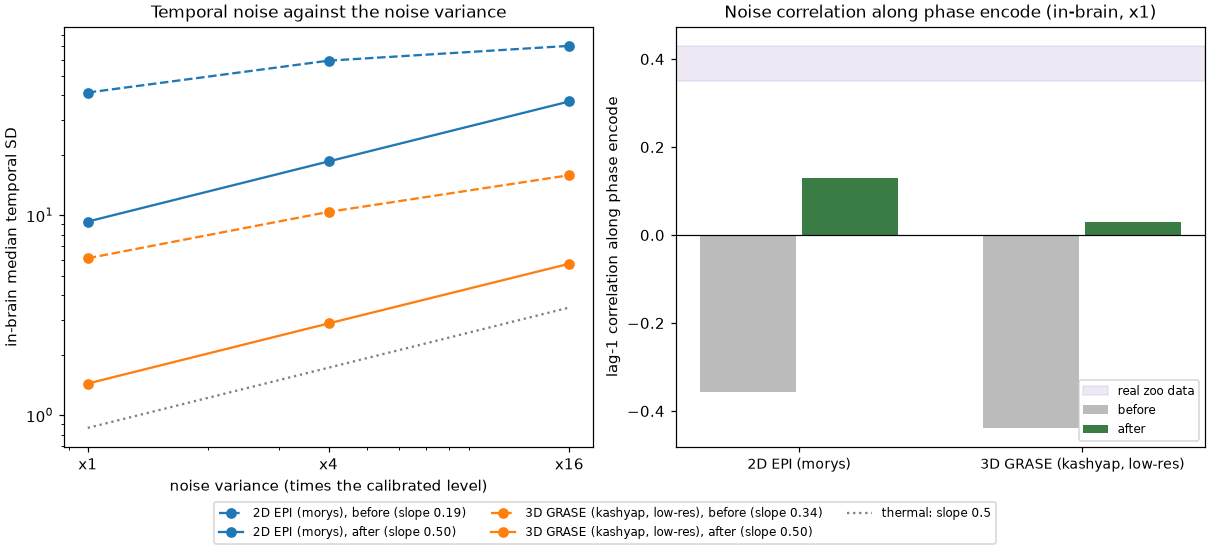
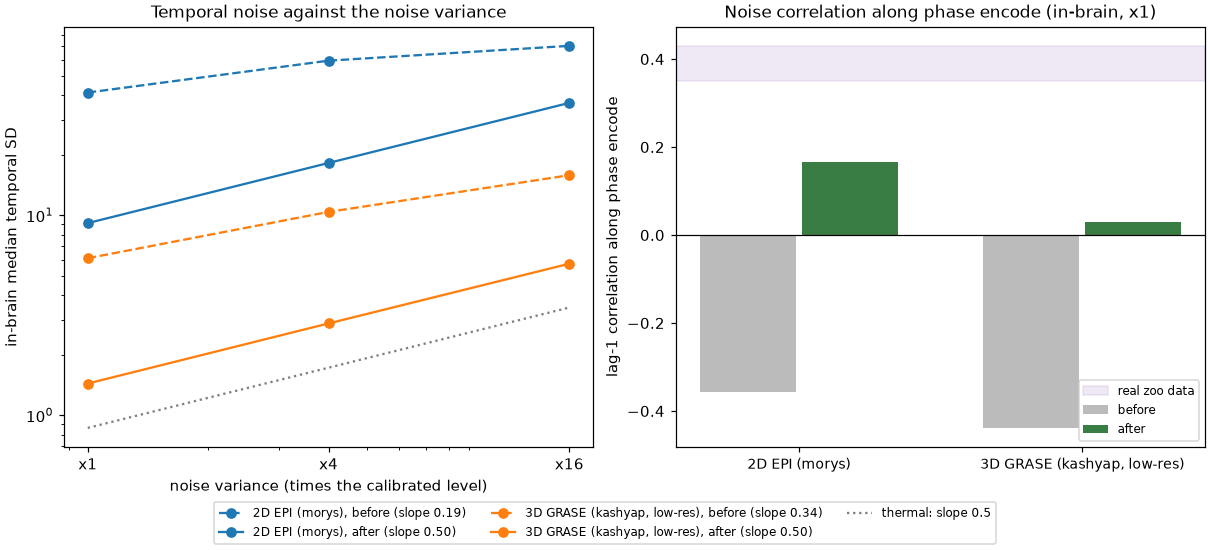
fix(GRAPPA): P6 and 3D GE reference scans before motion (Codex review)
P6 and the 3D gradient-echo train took mrsim-acq's default reference
scan, the first volume as acquired, after motion, dropout and shot
gains; a full dropout there would have ruined that slice's kernel for
the whole series. Both now use the calibration raw volume
(calibration_volume over the raw rows) unmoved and without
within-volume events, refuse an empty one, and pass it: per echo
through simulate_acquisition_echoes, acquire_2d and
simulate_acquisition_3d_kz for P6, ge3d::reference_inputs for the 3D GE
train. The 2D comment now says the reference keeps the volume's
physiology, as a scanner's does. Tests for both paths; the figures are
regenerated (morys: tSD 9.14, PE lag-1 +0.17).

diff --git a/src/series/p6.rs b/src/series/p6.rs
@@ -263,6 +263,9 @@ struct Built {
     gt_read_iv: Option<Vec<f32>>,
     gt_read_ev: Option<Vec<f32>>,
     gt_read_art: Option<Vec<f32>>,
+    /// The in-plane GRAPPA reference scan's object: the calibration raw volume's images before
+    /// any motion or within-volume event (empty without acceleration).
+    grappa_cal_images: Vec<Vec<f32>>,
 }
 
 /// The P1-P5 series body up to the acquisition, with `echo_time_s` in place of the protocol's
@@ -1193,6 +1196,23 @@ fn build(p: &Protocol, ph: &Phantom, mode: T2Mode, ov: RowOverride, echo_time_s:
         gt_read_art = d_art;
     }
 
+    // The in-plane GRAPPA reference scan: the calibration raw volume (the first control or label,
+    // else m0scan, else deltam) as it is here, before any motion or within-volume event, as the
+    // plain series captures it. (mrsim-acq's default, the first volume as acquired, would carry
+    // its motion and dropout into every volume's kernel.)
+    let grappa_cal_images: Vec<Vec<f32>> = if acq.accel > 1 {
+        let vol = crate::protocol::calibration_volume(&sched.raw_rows)
+            .ok_or("GRAPPA needs a volume to calibrate on: the series is empty")?;
+        let cal: Vec<Vec<f32>> = images.iter().map(|im| (0..nvox_sim).map(|v| im[v * n + vol]).collect()).collect();
+        if cal.iter().all(|im| im.iter().all(|v| *v == 0.0)) {
+            return Err(format!(
+                "the GRAPPA calibration volume (raw acquisition {vol}, the series' first control or label volume, else its                  first m0scan, else its first deltam) holds no signal, so the GRAPPA kernel cannot be fitted to it"));
+        }
+        cal
+    } else {
+        Vec::new()
+    };
+
     // ---- motion: per-volume poses, then multiband shot events ----
     let motion_seed = p.motion.as_ref().map(|_| p.seed ^ MOTION_SEED_SALT);
     let mut poses = vec![Pose::IDENTITY; n];
@@ -1384,7 +1404,7 @@ fn build(p: &Protocol, ph: &Phantom, mode: T2Mode, ov: RowOverride, echo_time_s:
     };
     let ge_propagated_some = ge_propagated.is_some();
     Ok(Built {
-        acq_grid, sim_grid, n, nvox_sim, images, gt_static, gt_moved, gt_iv, gt_sup, gt_art, physio_lines, shot_physio, shot_gain, shot_sets, n_shots, events, dropped, shot_plan, segment_shots, poses, motion_seed, res3d, acq, fmap_sim, relax, mode_used, k, ncomp, ev_group, macro_on, t2_arterial_ms, t2_blood_ms, acq_t2_ms, acq_t2p_ms, acq_t1_ms, needs_t1, r_acq, m0_acq, compat_facts, p4, label_factors, ge_flip, ge_propagated_some, m0_images, slice_offsets, tissue_only, tissue_shot_sets, m0_ref_images, gt_read, ll_lines, gt_read_iv, gt_read_ev, gt_read_art,
+        acq_grid, sim_grid, n, nvox_sim, images, gt_static, gt_moved, gt_iv, gt_sup, gt_art, physio_lines, shot_physio, shot_gain, shot_sets, n_shots, events, dropped, shot_plan, segment_shots, poses, motion_seed, res3d, acq, fmap_sim, relax, mode_used, k, ncomp, ev_group, macro_on, t2_arterial_ms, t2_blood_ms, acq_t2_ms, acq_t2p_ms, acq_t1_ms, needs_t1, r_acq, m0_acq, compat_facts, p4, label_factors, ge_flip, ge_propagated_some, m0_images, slice_offsets, tissue_only, tissue_shot_sets, m0_ref_images, gt_read, ll_lines, gt_read_iv, gt_read_ev, gt_read_art, grappa_cal_images,
     })
 }
 
@@ -1419,16 +1439,19 @@ pub(super) fn simulate_p6(
         }
     }
     let Built {
-        acq_grid, sim_grid, n, nvox_sim, images, gt_static, gt_moved, gt_iv, gt_sup, gt_art, physio_lines, shot_physio, shot_gain, shot_sets, n_shots, events, dropped, shot_plan, segment_shots, poses, motion_seed, res3d, acq, fmap_sim, relax, mode_used, k, ncomp, ev_group, macro_on, t2_arterial_ms, t2_blood_ms, acq_t2_ms, acq_t2p_ms, acq_t1_ms, needs_t1, r_acq, m0_acq, compat_facts, p4, label_factors, ge_flip, ge_propagated_some, m0_images, slice_offsets, tissue_only, tissue_shot_sets, m0_ref_images, gt_read, ll_lines, gt_read_iv, gt_read_ev, gt_read_art,
+        acq_grid, sim_grid, n, nvox_sim, images, gt_static, gt_moved, gt_iv, gt_sup, gt_art, physio_lines, shot_physio, shot_gain, shot_sets, n_shots, events, dropped, shot_plan, segment_shots, poses, motion_seed, res3d, acq, fmap_sim, relax, mode_used, k, ncomp, ev_group, macro_on, t2_arterial_ms, t2_blood_ms, acq_t2_ms, acq_t2p_ms, acq_t1_ms, needs_t1, r_acq, m0_acq, compat_facts, p4, label_factors, ge_flip, ge_propagated_some, m0_images, slice_offsets, tissue_only, tissue_shot_sets, m0_ref_images, gt_read, ll_lines, gt_read_iv, gt_read_ev, gt_read_art, grappa_cal_images,
     } = build(p, ph, mode, ov, tes[0], &sched)?;
     // P6 part C: every echo's readout block on explicit intervals, on the acquired grid
     if tes.len() > 1 || p.look_locker.is_some() {
         check_excitation_timing(p, acq_grid.dims)?;
     }
     let mut echo_images: Vec<Vec<Vec<f32>>> = Vec::new();
+    let mut echo_cal_images: Vec<Vec<Vec<f32>>> = Vec::new();
     if p.compat.is_some() && tes.len() > 1 {
         for &te in &tes[1..] {
-            echo_images.push(build(p, ph, mode, ov, te, &sched)?.images);
+            let b = build(p, ph, mode, ov, te, &sched)?;
+            echo_images.push(b.images);
+            echo_cal_images.push(b.grappa_cal_images);
         }
     }
 
@@ -1533,26 +1556,40 @@ pub(super) fn simulate_p6(
     let spiral_segmentation = None;
     let echo_ms: Vec<f64> = tes.iter().map(|te| te * 1000.0).collect();
     let mut more_mag: Vec<(Vec<f32>, Vec<f32>)> = Vec::new();
+    // the GRAPPA reference scan (per echo its own object, on the echo's receiver seed, as
+    // mrsim-acq's default draws it)
+    let accel = acq.accel > 1;
+    let grappa_cal = accel.then(|| GrappaCalibration { images: &grappa_cal_images, seed: p.seed });
     let (mag, phase_out) = match &res3d {
         None if tes.len() > 1 => {
             let per: Vec<&[Vec<f32>]> = (0..tes.len())
                 .map(|e| if e == 0 || echo_images.is_empty() { &images[..] } else { &echo_images[e - 1][..] })
                 .collect();
+            let cals: Vec<GrappaCalibration> = (0..tes.len())
+                .map(|e| GrappaCalibration {
+                    images: if e == 0 || echo_cal_images.is_empty() { &grappa_cal_images[..] } else { &echo_cal_images[e - 1][..] },
+                    seed: p.seed ^ mrsim_acq::kspace::echo_salt(e),
+                })
+                .collect();
             let mut all = simulate_acquisition_echoes(
                 sim_grid.dims, acq_grid.dims, n, &per, &t2_vols, &fmap_sim, Some(&ti_vols), &acq, &echo_ms,
-                &eddy_drive, &prep_drive, phase, p.seed, None,
+                &eddy_drive, &prep_drive, phase, p.seed, None, accel.then_some(&cals[..]),
             );
             more_mag = all.split_off(1);
             all.pop().expect("one echo at least")
         }
-        None => simulate_acquisition_oversampled(
-            sim_grid.dims, acq_grid.dims, n, &images, &t2_vols, &fmap_sim, Some(&ti_vols), &acq,
-            &eddy_drive, &prep_drive, phase, p.seed, None,
+        None => acquire_2d(
+            AcquisitionInput {
+                sim_dims: sim_grid.dims, acq_dims: acq_grid.dims, n_volumes: n, images: &images, t2: &t2_vols,
+                fmap: &fmap_sim, t_inhom: Some(&ti_vols), eddy_drive: &eddy_drive, prep_drive: &prep_drive, phase,
+                seed: p.seed, noise_sigma: None,
+            },
+            &acq, grappa_cal,
         ),
-        Some(r3) => simulate_acquisition_3d(
+        Some(r3) => mrsim_acq::kspace3d::simulate_acquisition_3d_kz(
             sim_grid.dims, acq_grid.dims, n, &images, &t2_vols, t1_vols.as_deref(), &fmap_sim, Some(&ti_vols), &acq,
             &r3.train, &r3.readout, line_weights.as_ref(), shot_sets.iter().any(|s| !s.is_empty()).then_some(&shot_sets[..]),
-            phase, p.seed,
+            phase, p.seed, None, grappa_cal,
         ),
     };
     drop(images);
@@ -1584,7 +1621,7 @@ pub(super) fn simulate_p6(
                     let per: Vec<&[Vec<f32>]> = vec![&imgs[..]; tes.len()];
                     simulate_acquisition_echoes(
                         sim_grid.dims, acq_grid.dims, nt, &per, &t2_vols, &fmap_sim, Some(&ti_vols), &quiet, &echo_ms,
-                        &vec![None; nt], &vec![None; nt], phase, p.seed, None,
+                        &vec![None; nt], &vec![None; nt], phase, p.seed, None, None,
                     )
                 }
                 None => vec![simulate_acquisition_oversampled(
@@ -1637,7 +1674,7 @@ pub(super) fn simulate_p6(
                 let per: Vec<&[Vec<f32>]> = vec![&imgs[..]; tes.len()];
                 let mut all = simulate_acquisition_echoes(
                     sim_grid.dims, acq_grid.dims, 1, &per, &t2_vols, &fmap_sim, Some(&ti_vols), &acq, &echo_ms,
-                    &[None], &[None], phase, seed, None,
+                    &[None], &[None], phase, seed, None, None,
                 );
                 more_m0 = all.split_off(1);
                 all.pop().expect("one echo at least")
@@ -2280,6 +2317,54 @@ mod tests {
             assert_eq!(bits(phs), bits(&one.phase), "echo {e}");
         }
         assert_eq!(out.hadamard.as_ref().unwrap().raw_more_echoes.len(), 1);
+    }
+
+    /// Codex review of the GRAPPA PRs: under in-plane acceleration the P6 series' reference scan is
+    /// its calibration raw volume before motion and within-volume events, the same with and
+    /// without them, and not the volume as acquired (mrsim-acq's default would have taken that).
+    #[test]
+    fn the_grappa_reference_is_captured_before_motion() {
+        let ph = crop();
+        let n_sub = 3;
+        let (mut ld, mut pld, mut tr) = (Vec::new(), Vec::new(), Vec::new());
+        for j in 0..n_sub {
+            ld.push(TAU);
+            pld.push(PLD + TAU * (n_sub - 1 - j) as f64);
+            tr.push(4.0);
+        }
+        let mut s = sidecar(ld, pld, tr, "Absent", false);
+        s["ParallelReductionFactorInPlane"] = json!(2);
+        let ctx = format!("volume_type
+{}", "deltam
+".repeat(n_sub));
+        let parse = |m: &str| {
+            let ov = overlay(&format!("n_coils = 4
+acs_lines = 8
+[hadamard]
+order = 4
+{m}"), false);
+            parse_echoes(&[s.clone()], &ctx, Some(&ov), None).unwrap()
+        };
+        let motion = "[motion]
+mode = \"random\"
+trans_mm = [1.0, 1.0, 0.0]
+rot_deg = [0.0, 0.0, 2.0]
+                      [motion.within_volume]
+dropout_rate = 1.0
+severity = 0.5
+";
+        let (ps, pm) = (parse(""), parse(motion));
+        let sched = Schedule::new(&ps);
+        let bs = build(&ps, &ph, T2Mode::Class, RowOverride::None, ps.echo_times_s[0], &sched).unwrap();
+        let bm = build(&pm, &ph, T2Mode::Class, RowOverride::None, pm.echo_times_s[0], &Schedule::new(&pm)).unwrap();
+        let v = crate::protocol::calibration_volume(&sched.raw_rows).unwrap();
+        let vol = |b: &Built| -> Vec<Vec<f32>> { b.images.iter().map(|im| im.iter().skip(v).step_by(b.n).copied().collect()).collect() };
+        assert!(!bs.grappa_cal_images.is_empty());
+        assert_eq!(vol(&bs), bs.grappa_cal_images, "still: the reference is the calibration volume");
+        assert_eq!(bm.grappa_cal_images, bs.grappa_cal_images, "the reference does not move");
+        assert_ne!(vol(&bm), bm.grappa_cal_images, "the calibration volume as acquired is moved");
+        let out = simulate_p6(&pm, &ph, T2Mode::Class, &zero_phase(), RowOverride::None, None).unwrap();
+        assert!(out.mag.iter().all(|x| x.is_finite()) && out.mag.iter().any(|x| *x > 0.0));
     }
 
     /// The transient with shot motion (2D, multiband shot events, gradient echo after an included

diff --git a/src/series/ge3d.rs b/src/series/ge3d.rs
@@ -368,6 +368,17 @@ pub(super) fn volume_inputs(b: &Ge3dBuild, g: usize) -> mrsim_acq::kspace3d::GeV
 
 /// [`volume_inputs`], with `labels` false the tissue alone (P6 part A, the leakage).
 pub(super) fn volume_inputs_with(b: &Ge3dBuild, g: usize, labels: bool) -> mrsim_acq::kspace3d::GeVolume {
+    ge_inputs(b, g, labels, false)
+}
+
+/// The in-plane GRAPPA reference scan's input: raw volume `g` as [`volume_inputs`] builds it, but
+/// unmoved, without within-volume events (no shot images, no shot gains). Its physiology stays,
+/// as in the 2D series' reference.
+pub(super) fn reference_inputs(b: &Ge3dBuild, g: usize) -> mrsim_acq::kspace3d::GeVolume {
+    ge_inputs(b, g, true, true)
+}
+
+fn ge_inputs(b: &Ge3dBuild, g: usize, labels: bool, still: bool) -> mrsim_acq::kspace3d::GeVolume {
     let ph = b.ph;
     let ncomp = b.n_compartments();
     let nk = b.masks.len();
@@ -404,14 +415,14 @@ pub(super) fn volume_inputs_with(b: &Ge3dBuild, g: usize, labels: bool) -> mrsim
     }
     // motion (P5 part D): the volume's pose moves its images; the shots after a within-volume event
     // see them moved again by the event's jump (each distinct pose one shot set)
-    let pose = b.poses[g];
+    let pose = if still { Pose::IDENTITY } else { b.poses[g] };
     if pose != Pose::IDENTITY {
         for im in images.iter_mut().filter(|im| !im.is_empty()) {
             *im = mrsim_acq::motion::resample_by_pose(im, b.sim_dims, b.v2w, pose);
         }
     }
     let mut distinct: Vec<Pose> = Vec::new();
-    for &q in &b.shot_pose[g] {
+    for &q in b.shot_pose[g].iter().filter(|_| !still) {
         if q != Pose::IDENTITY && !distinct.contains(&q) {
             distinct.push(q);
         }
@@ -438,7 +449,7 @@ pub(super) fn volume_inputs_with(b: &Ge3dBuild, g: usize, labels: bool) -> mrsim
             let prep = first_prep + shot;
             debug_assert_eq!(preps[shot].shot, shot);
             let (tf, lf) = b.shot_factors[g][shot];
-            let gain = b.shot_gain[g][shot];
+            let gain = if still { 1.0 } else { b.shot_gain[g][shot] };
             let (tf, lf) = (tf * gain, lf * gain);
             let at = |c: usize| (p * ky_segments + sy) * ncomp + c;
             if tissue_on {
@@ -802,9 +813,23 @@ pub(super) fn simulate_ge3d(p: &Protocol, ph: &Phantom, mode: T2Mode, phase: &Ph
     }
 
     // ---- the acquisition: every echo, volumes on demand ----
+    // the in-plane GRAPPA reference scan: the calibration raw volume (the first control or label,
+    // else m0scan, else deltam), unmoved and without within-volume events
+    let grappa_reference = if acq.accel > 1 {
+        let vol = crate::protocol::calibration_volume(&b.sched.raw_rows)
+            .ok_or("GRAPPA needs a volume to calibrate on: the series is empty")?;
+        let r = reference_inputs(&b, vol);
+        if r.images.iter().all(|im| im.iter().all(|v| *v == 0.0)) || r.weights.iter().all(|w| *w == 0.0) {
+            return Err(format!(
+                "the GRAPPA calibration volume (raw acquisition {vol}, the series' first control or label volume, else its                  first m0scan, else its first deltam) holds no signal, so the GRAPPA kernel cannot be fitted to it"));
+        }
+        Some(r)
+    } else {
+        None
+    };
     let mut echoes = mrsim_acq::kspace3d::simulate_acquisition_3d_ge(
         sim_grid.dims, acq_grid.dims, n, &t2_vols, &fmap_sim, Some(&ti_vols), &acq, &b.res.train, &b.res.readout,
-        &|g| volume_inputs(&b, g), phase, p.seed,
+        &|g| volume_inputs(&b, g), phase, p.seed, grappa_reference.as_ref(),
     );
 
     // ---- the separate M0: the same train without labeling or suppression at its own TR ----
@@ -832,7 +857,7 @@ pub(super) fn simulate_ge3d(p: &Protocol, ph: &Phantom, mode: T2Mode, phase: &Ph
             };
             Some(mrsim_acq::kspace3d::simulate_acquisition_3d_ge(
                 sim_grid.dims, acq_grid.dims, 1, &t2_vols, &fmap_sim, Some(&ti_vols), &acq, &b.res.train, &b.res.readout,
-                &m0_volume, phase, seed,
+                &m0_volume, phase, seed, None,
             ))
         }
         (Some(_), None) => return Err("M0Type Separate without an M0 repetition time".to_string()),
@@ -985,7 +1010,7 @@ pub(super) fn simulate_ge3d(p: &Protocol, ph: &Phantom, mode: T2Mode, phase: &Ph
                 };
                 let per_echo = mrsim_acq::kspace3d::simulate_acquisition_3d_ge(
                     sim_grid.dims, acq_grid.dims, nt, &t2_vols, &fmap_sim, Some(&ti_vols), &quiet, &b.res.train,
-                    &b.res.readout, &builder, phase, p.seed,
+                    &b.res.readout, &builder, phase, p.seed, None,
                 );
                 let brain: Vec<bool> = r_acq.majority(&ph.dseg).iter().map(|l| *l > 0).collect();
                 let norm = |img: &[(f64, f64)]| -> f64 {
@@ -1489,6 +1514,22 @@ mod tests {
         assert_ne!(gt.delta_m, out_s.ground_truth.delta_m);
         assert_eq!((out_m.poses.len(), out_m.events.len(), out_m.motion_seed.is_some()), (2, moving.events.len(), true));
         assert_ne!(out_m.mag, out_s.mag);
+    }
+
+    /// Codex review of the GRAPPA PRs: the in-plane GRAPPA reference scan's input is the volume
+    /// unmoved and without within-volume events (no shot images, shot gains of one), the still
+    /// series' volume bit for bit, while the volume as acquired carries its pose or events.
+    #[test]
+    fn the_grappa_reference_input_is_the_still_volume() {
+        let ph = crop();
+        let (ps, pm) = (ge3d_protocol(""), ge3d_protocol(MOTION));
+        let still = prepare_ge3d(&ps, &ph, T2Mode::Class, RowOverride::None).unwrap();
+        let moving = prepare_ge3d(&pm, &ph, T2Mode::Class, RowOverride::None).unwrap();
+        for g in 0..2 {
+            let want = volume_inputs(&still.b, g);
+            assert_eq!(reference_inputs(&moving.b, g), want, "volume {g}");
+            assert_ne!(volume_inputs(&moving.b, g), want, "volume {g} as acquired");
+        }
     }
 
     /// P10 part C on the 3D gradient-echo train (four segments per volume): held still within each

diff --git a/src/series.rs b/src/series.rs
@@ -1219,8 +1219,10 @@ fn simulate_legacy(
         }
     }
     // The in-plane GRAPPA kernels are fitted once per series, on a reference scan of the same
-    // volume (its images before any motion, read without physiology or shot events, on a noise
-    // stream of the series seed), and applied to every volume. The separate M0 is its own series
+    // volume (its images before any motion or shot event, on a noise stream of the series seed),
+    // and applied to every volume. In 2D those images carry the volume's physiological tissue and
+    // label factors, as a scanner's reference scan is acquired under physiology too; a per-slice
+    // scale does not change the kernel, which is scale-free. The separate M0 is its own series
     // with its own reference scan (mrsim-acq's default: its one volume).
     let grappa_cal_volume = if acq.accel > 1 {
         Some(crate::protocol::calibration_volume(&p.rows).ok_or("GRAPPA needs a volume to calibrate on: the series is empty")?)
